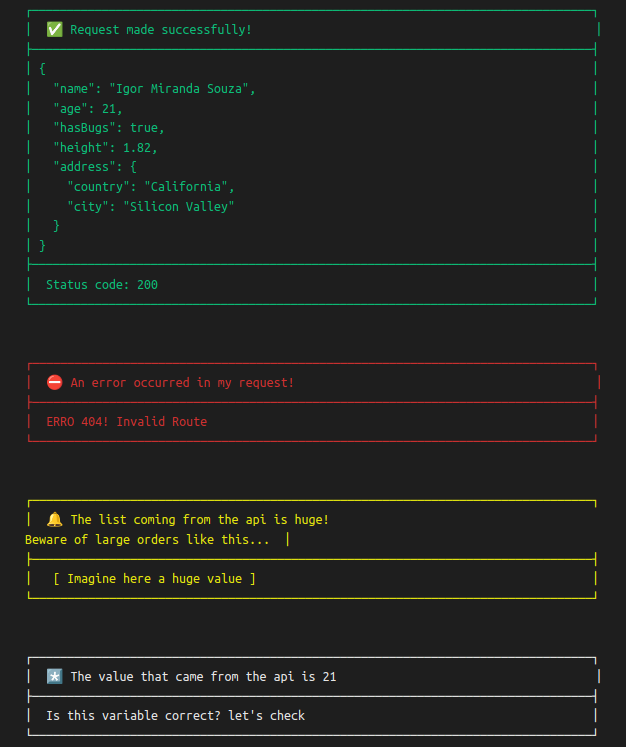
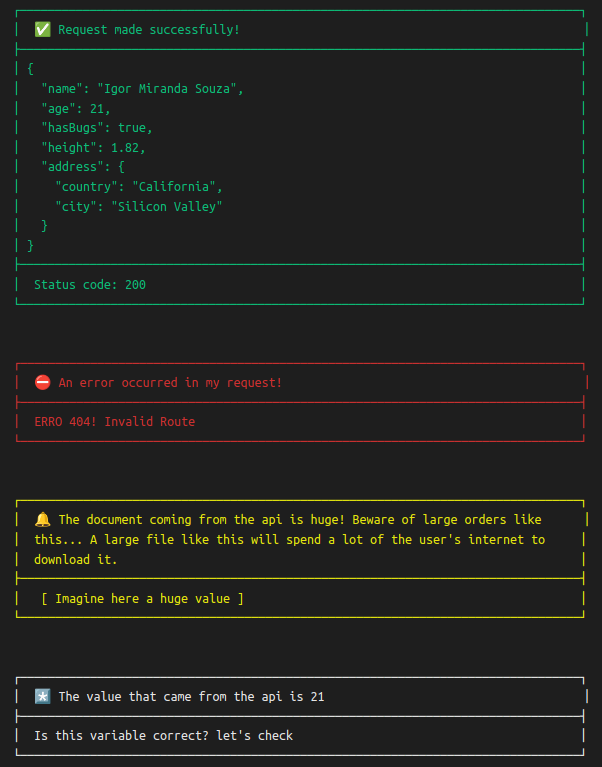
Example changed to be more didactic

diff --git a/example/sandbox_logger_example.dart b/example/sandbox_logger_example.dart
@@ -1,4 +1,3 @@
-import 'dart:convert';
 import 'package:sandbox_logger/sandbox_logger.dart';
 
 void main() {
@@ -30,8 +29,9 @@ void main() {
 
   // Log in yellow a warning to be aware when something happends
   SandLog.warning(
-    header: 'The list coming from the api is huge!\n'
-        'Beware of large orders like this...',
+    header: 'The document coming from the api is huge! '
+        'Beware of large orders like this... A large file '
+        'like this will spend a lot of the user\'s internet to download it.',
     text: ' [ Imagine here a huge value ]',
   );
 
@@ -70,22 +70,6 @@ class _ModelForExemple {
     required this.address,
   });
 
-  _ModelForExemple copyWith({
-    String? name,
-    int? age,
-    bool? hasBugs,
-    double? height,
-    Address? address,
-  }) {
-    return _ModelForExemple(
-      name: name ?? this.name,
-      age: age ?? this.age,
-      hasBugs: hasBugs ?? this.hasBugs,
-      height: height ?? this.height,
-      address: address ?? this.address,
-    );
-  }
-
   Map<String, dynamic> toMap() {
     return {
       'name': name,
@@ -96,65 +80,15 @@ class _ModelForExemple {
     };
   }
 
-  factory _ModelForExemple.fromMap(Map<String, dynamic> map) {
-    return _ModelForExemple(
-      name: map['name'] ?? '',
-      age: map['age']?.toInt() ?? 0,
-      hasBugs: map['hasBugs'] ?? false,
-      height: map['height']?.toDouble() ?? 0.0,
-      address: Address.fromMap(map['address']),
-    );
-  }
-
-  String toJson() => json.encode(toMap());
-
-  factory _ModelForExemple.fromJson(String source) =>
-      _ModelForExemple.fromMap(json.decode(source));
-
   @override
-  String toString() {
-    return '_ModelForExemple(name: $name, age: $age, hasBugs: $hasBugs, height: $height, address: $address)';
-  }
-
-  @override
-  bool operator ==(Object other) {
-    if (identical(this, other)) return true;
-
-    return other is _ModelForExemple &&
-        other.name == name &&
-        other.age == age &&
-        other.hasBugs == hasBugs &&
-        other.height == height &&
-        other.address == address;
-  }
-
-  @override
-  int get hashCode {
-    return name.hashCode ^
-        age.hashCode ^
-        hasBugs.hashCode ^
-        height.hashCode ^
-        address.hashCode;
-  }
+  String toString() =>
+      '_ModelForExemple(name: $name, age: $age, hasBugs: $hasBugs, height: $height, address: $address)';
 }
 
 class Address {
   final String country;
   final String city;
-  Address({
-    required this.country,
-    required this.city,
-  });
-
-  Address copyWith({
-    String? country,
-    String? city,
-  }) {
-    return Address(
-      country: country ?? this.country,
-      city: city ?? this.city,
-    );
-  }
+  Address({required this.country, required this.city});
 
   Map<String, dynamic> toMap() {
     return {
@@ -163,28 +97,6 @@ class Address {
     };
   }
 
-  factory Address.fromMap(Map<String, dynamic> map) {
-    return Address(
-      country: map['country'] ?? '',
-      city: map['city'] ?? '',
-    );
-  }
-
-  String toJson() => json.encode(toMap());
-
-  factory Address.fromJson(String source) =>
-      Address.fromMap(json.decode(source));
-
   @override
   String toString() => 'Address(country: $country, city: $city)';
-
-  @override
-  bool operator ==(Object other) {
-    if (identical(this, other)) return true;
-
-    return other is Address && other.country == country && other.city == city;
-  }
-
-  @override
-  int get hashCode => country.hashCode ^ city.hashCode;
 }
